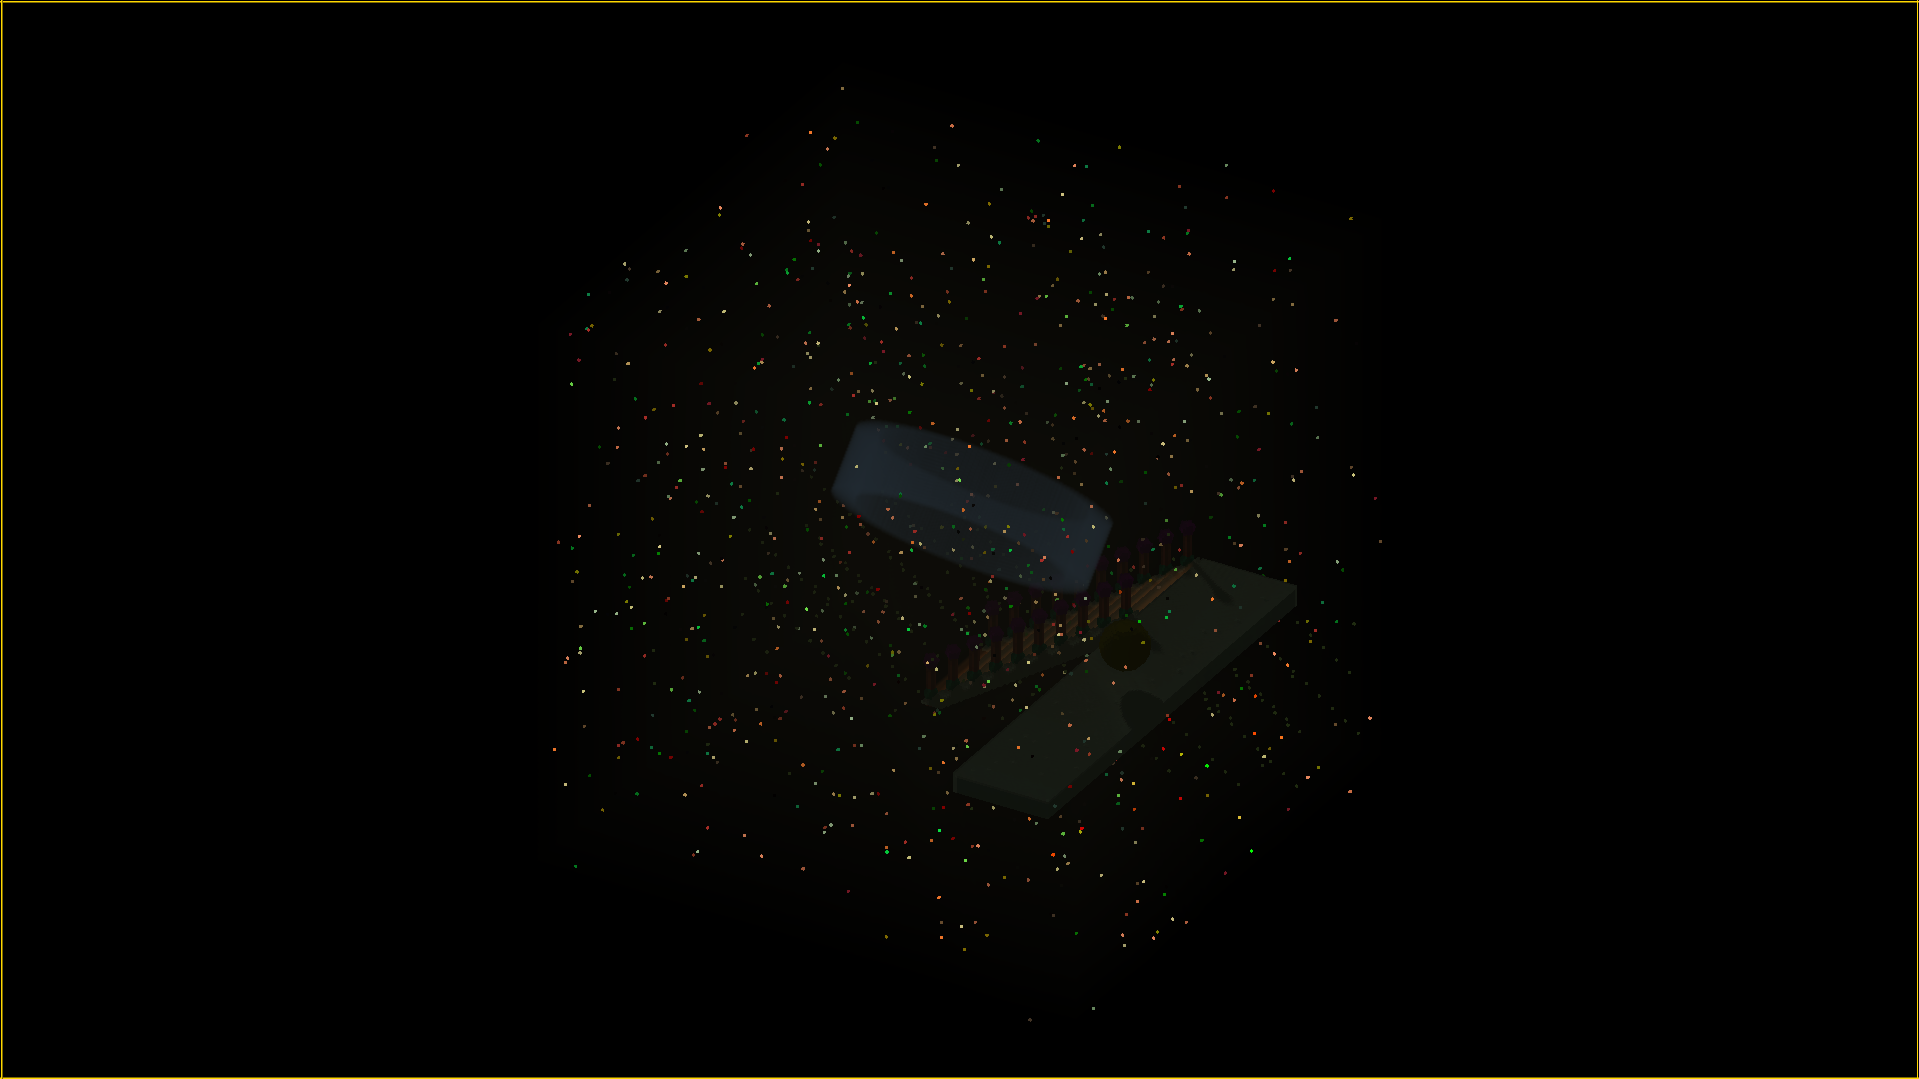
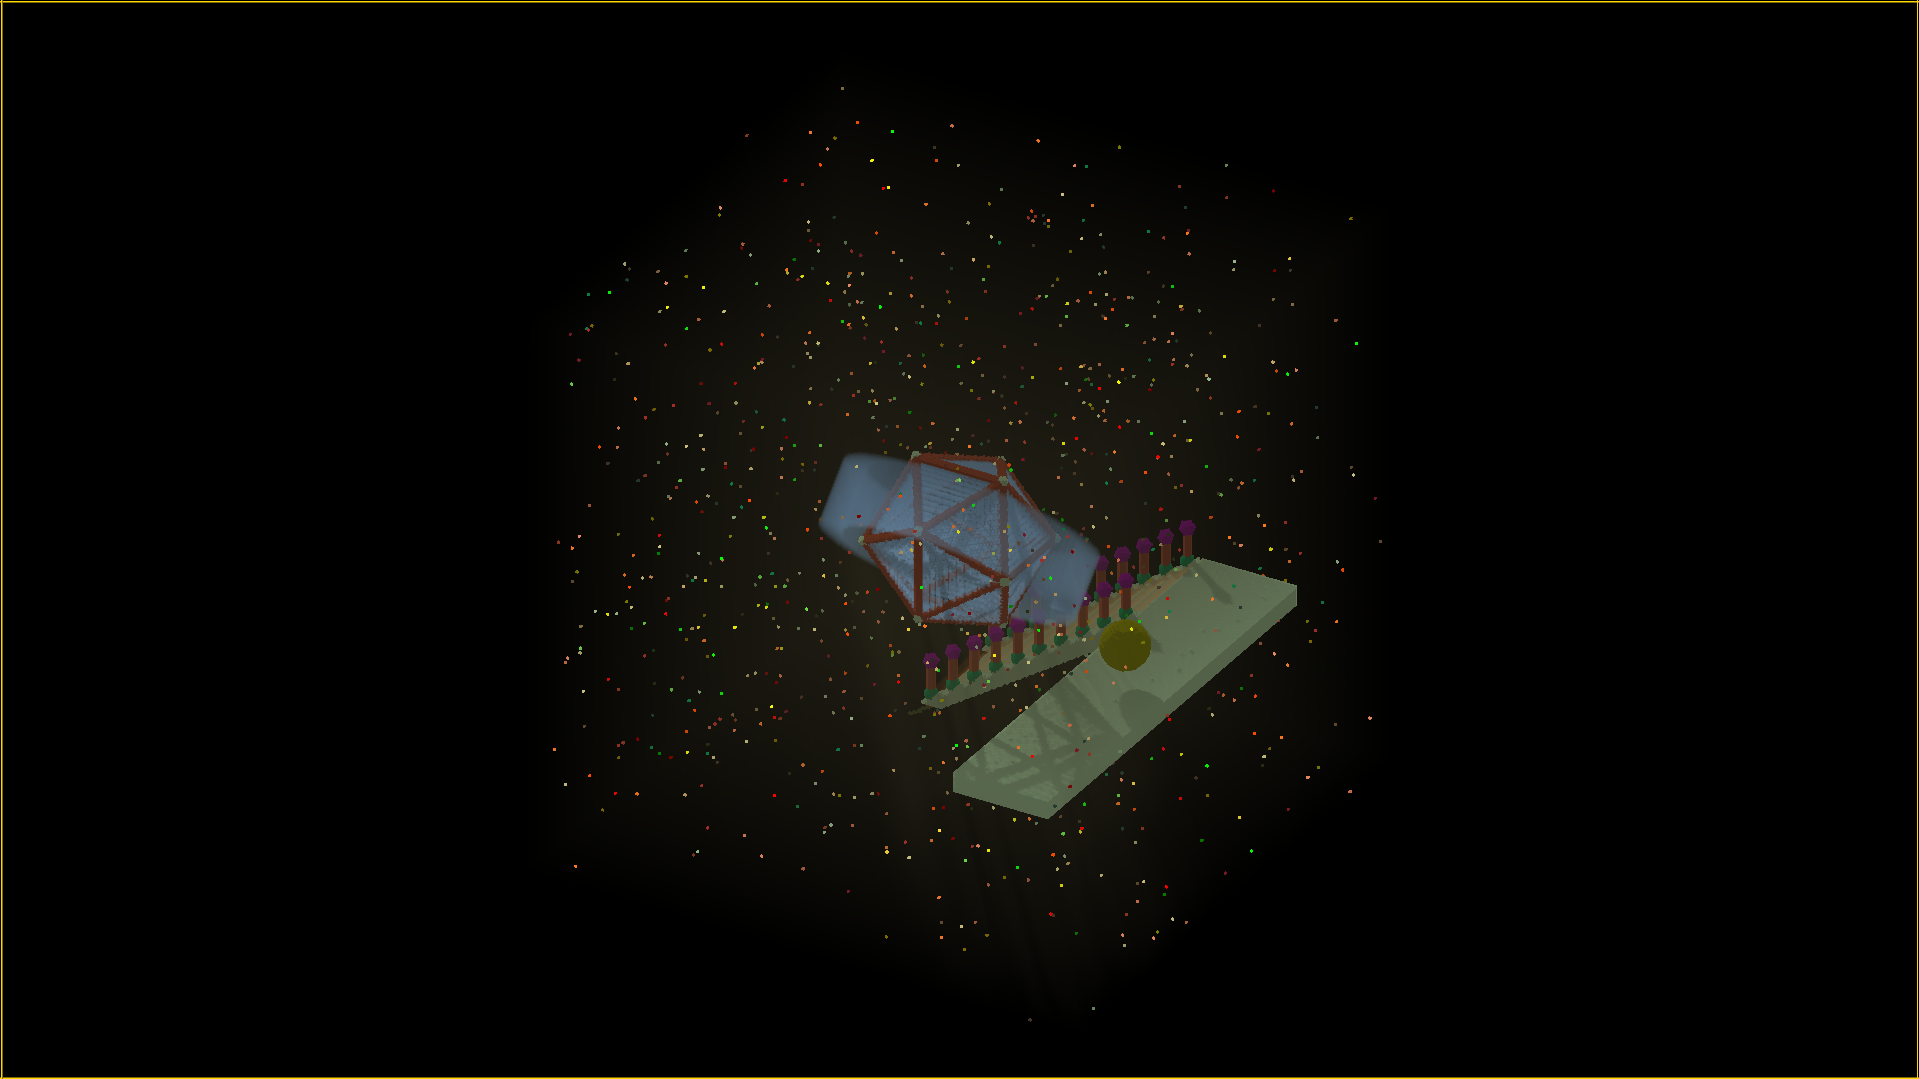
fixed the problem with the draw line segment function - not sure why it was fucking up so spectacularly but it was indeed doing so

Changed region(s): [[0.4304, 0.3976, 0.6764, 0.7646]]

diff --git a/main.cc b/main.cc
@@ -27,7 +27,7 @@ Voraldo *main_block;
 int main()
 {
 
-  bool animate = true;
+  bool animate = false;
 
   main_block = new Voraldo();
   main_block->draw->init_block(dimensions);
@@ -152,9 +152,9 @@ int main()
    main_block->draw->draw_line_segment(vec(180,8,178), vec( 80, 78,178), get_vox(30,1.0,1.0,true));
 
    //main_block->draw->draw_cylinder(center,center+vec(0,20,20),45,get_vox(37,0.02,1.0,false),true,true);
-   main_block->draw->draw_tube(center,center+vec(0,20,20),45,55,get_vox(37,0.02,0.3,false),true,true);
+   main_block->draw->draw_tube(center+vec(0,-10,-10),center+vec(0,10,10),45,55,get_vox(37,0.02,0.3,false),true,true);
 
-   main_block->draw->draw_regular_icosahedron(0,0,0,20,center,get_vox(27,1.0,0.3,false/*vertex material*/),2,get_vox(4,1.0,0.3,false/*edge_material*/),1.5,get_vox(37,0.12,0.3,false/*face_material*/));
+   main_block->draw->draw_regular_icosahedron(0,0,0,20,center,get_vox(27,1.0,0.3,false/*vertex material*/),2,get_vox(4,1.0,0.3,false/*edge_material*/),1.5,get_vox(37,0.20,0.3,false/*face_material*/));
 
 
 
@@ -165,7 +165,7 @@ int main()
 
    main_block->lighting->scale_lighting_intensity(4.0);
 
-   main_block->io->display("new_output_step_1.png", 3.14, 3.14/3.0 + 3.14, 3.14/3.0, 0.4, false);
+   //main_block->io->display("new_output_step_1.png", 3.14, 3.14/3.0 + 3.14, 3.14/3.0, 0.4, false);
 
    // main_block->lighting->scale_lighting_intensity(1.2);
    //
@@ -197,19 +197,11 @@ int main()
 
 
            cout << "process 0 starting" << endl;
-           for(int i = 4*40; i < 5*40; i += 1)
+           for(int i = 4*40+320; i < 5*40+320; i += 1)
            {
               std::cout << "frame number " << i;
               tick = Clock::now();
 
-              main_block->draw->draw_sphere(center,1000,get_vox( 0,0.0007,0.1,false),true,false);
-              main_block->draw->draw_regular_icosahedron(-0.001*i,0.001*i,0.001*i,20,center,get_vox(27,1.0,0.3,false/*vertex material*/),2,get_vox(4,1.0,0.3,false/*edge_material*/),1.5,get_vox(37,0.12,0.3,false/*face_material*/));
-             // main_block->draw->draw_sphere(center,1000,get_vox(17,0.0007,0.1,false),true,false);
-
-              main_block->lighting->scale_lighting_intensity(1.8);
-
-              main_block->lighting->apply_directional_lighting(5.0, 3.14, 0.25*3.14, 3.14/3, 0.15, true);
-              main_block->lighting->scale_lighting_intensity(0.8);
 
               if(i < 10)
               {
@@ -233,19 +225,10 @@ int main()
           {//process 4 (child of process 0)
             cout << "process 4 starting" << endl;
 
-            for(int i = 0; i < 40; i += 1)
+            for(int i = 0+320; i < 40+320; i += 1)
             {
                std::cout << "frame number " << i;
                tick = Clock::now();
-
-               main_block->draw->draw_sphere(center,1000,get_vox( 0,0.0007,0.1,false),true,false);
-               main_block->draw->draw_regular_icosahedron(-0.001*i,0.001*i,0.001*i,20,center,get_vox(27,1.0,0.3,false/*vertex material*/),2,get_vox(4,1.0,0.3,false/*edge_material*/),1.5,get_vox(37,0.12,0.3,false/*face_material*/));
-              // main_block->draw->draw_sphere(center,1000,get_vox(17,0.0007,0.1,false),true,false);
-
-               main_block->lighting->scale_lighting_intensity(1.8);
-
-               main_block->lighting->apply_directional_lighting(5.0, 3.14, 0.25*3.14, 3.14/3, 0.15, true);
-               main_block->lighting->scale_lighting_intensity(0.8);
 
                if(i < 10)
                {
@@ -272,19 +255,11 @@ int main()
          {//process 2
            cout << "process 2 starting" << endl;
 
-           for(int i = 2*40; i < 3*40; i += 1)
+           for(int i = 2*40+320; i < 3*40+320; i += 1)
            {
              std::cout << "frame number " << i;
              tick = Clock::now();
 
-             main_block->draw->draw_sphere(center,1000,get_vox( 0,0.0007,0.1,false),true,false);
-             main_block->draw->draw_regular_icosahedron(-0.001*i,0.001*i,0.001*i,20,center,get_vox(27,1.0,0.3,false/*vertex material*/),2,get_vox(4,1.0,0.3,false/*edge_material*/),1.5,get_vox(37,0.12,0.3,false/*face_material*/));
-            // main_block->draw->draw_sphere(center,1000,get_vox(17,0.0007,0.1,false),true,false);
-
-             main_block->lighting->scale_lighting_intensity(1.8);
-
-             main_block->lighting->apply_directional_lighting(5.0, 3.14, 0.25*3.14, 3.14/3, 0.15, true);
-             main_block->lighting->scale_lighting_intensity(0.8);
 
               if(i < 10)
               {
@@ -306,19 +281,11 @@ int main()
          {//process 5 (child of process 2)
            cout << "process 5 starting" << endl;
 
-           for(int i = 5*40; i < 6*40; i += 1)
+           for(int i = 5*40+320; i < 6*40+320; i += 1)
            {
              std::cout << "frame number " << i;
              tick = Clock::now();
 
-             main_block->draw->draw_sphere(center,1000,get_vox( 0,0.0007,0.1,false),true,false);
-             main_block->draw->draw_regular_icosahedron(-0.001*i,0.001*i,0.001*i,20,center,get_vox(27,1.0,0.3,false/*vertex material*/),2,get_vox(4,1.0,0.3,false/*edge_material*/),1.5,get_vox(37,0.12,0.3,false/*face_material*/));
-            // main_block->draw->draw_sphere(center,1000,get_vox(17,0.0007,0.1,false),true,false);
-
-             main_block->lighting->scale_lighting_intensity(1.8);
-
-             main_block->lighting->apply_directional_lighting(5.0, 3.14, 0.25*3.14, 3.14/3, 0.15, true);
-             main_block->lighting->scale_lighting_intensity(0.8);
 
               if(i < 10)
               {
@@ -346,19 +313,10 @@ int main()
            {//first child process (process 1)
 
            cout << "process 1 starting" << endl;
-           for(int i = 40; i < 2*40; i += 1)
+           for(int i = 40+320; i < 2*40+320; i += 1)
            {
              std::cout << "frame number " << i;
              tick = Clock::now();
-
-             main_block->draw->draw_sphere(center,1000,get_vox( 0,0.0007,0.1,false),true,false);
-             main_block->draw->draw_regular_icosahedron(-0.001*i,0.001*i,0.001*i,20,center,get_vox(27,1.0,0.3,false/*vertex material*/),2,get_vox(4,1.0,0.3,false/*edge_material*/),1.5,get_vox(37,0.12,0.3,false/*face_material*/));
-             //main_block->draw->draw_sphere(center,1000,get_vox(17,0.0007,0.1,false),true,false);
-
-             main_block->lighting->scale_lighting_intensity(1.8);
-
-             main_block->lighting->apply_directional_lighting(5.0, 3.14, 0.25*3.14, 3.14/3, 0.15, true);
-             main_block->lighting->scale_lighting_intensity(0.8);
 
               if(i < 10)
               {
@@ -380,19 +338,10 @@ int main()
          {//process 6
            cout << "process 6 starting" << endl;
 
-           for(int i = 6*40; i < 7*40; i += 1)
+           for(int i = 6*40+320; i < 7*40+320; i += 1)
            {
              std::cout << "frame number " << i;
              tick = Clock::now();
-
-             main_block->draw->draw_sphere(center,1000,get_vox( 0,0.0007,0.1,false),true,false);
-             main_block->draw->draw_regular_icosahedron(-0.001*i,0.001*i,0.001*i,20,center,get_vox(27,1.0,0.3,false/*vertex material*/),2,get_vox(4,1.0,0.3,false/*edge_material*/),1.5,get_vox(37,0.12,0.3,false/*face_material*/));
-            // main_block->draw->draw_sphere(center,1000,get_vox(17,0.0007,0.1,false),true,false);
-
-             main_block->lighting->scale_lighting_intensity(1.8);
-
-             main_block->lighting->apply_directional_lighting(5.0, 3.14, 0.25*3.14, 3.14/3, 0.15, true);
-             main_block->lighting->scale_lighting_intensity(0.8);
 
               if(i < 10)
               {
@@ -419,19 +368,11 @@ int main()
          //child of child process (process 3)
          cout << "process 3 starting" << endl;
 
-         for(int i = 3*40; i < 4*40; i += 1)
+         for(int i = 3*40+320; i < 4*40+320; i += 1)
          {
            std::cout << "frame number " << i;
            tick = Clock::now();
 
-           main_block->draw->draw_sphere(center,1000,get_vox( 0,0.0007,0.1,false),true,false);
-           main_block->draw->draw_regular_icosahedron(-0.001*i,0.001*i,0.001*i,20,center,get_vox(27,1.0,0.3,false/*vertex material*/),2,get_vox(4,1.0,0.3,false/*edge_material*/),1.5,get_vox(37,0.12,0.3,false/*face_material*/));
-          // main_block->draw->draw_sphere(center,1000,get_vox(17,0.0007,0.1,false),true,false);
-
-           main_block->lighting->scale_lighting_intensity(1.8);
-
-           main_block->lighting->apply_directional_lighting(5.0, 3.14, 0.25*3.14, 3.14/3, 0.15, true);
-           main_block->lighting->scale_lighting_intensity(0.8);
 
             if(i < 10)
             {
@@ -453,19 +394,11 @@ int main()
        {
          cout << "process 7 starting" << endl;
 
-         for(int i = 7*40; i < 8*40; i += 1)
+         for(int i = 7*40+320; i < 8*40+320; i += 1)
          {
            std::cout << "frame number " << i;
            tick = Clock::now();
 
-           main_block->draw->draw_sphere(center,1000,get_vox( 0,0.0007,0.1,false),true,false);
-           main_block->draw->draw_regular_icosahedron(-0.001*i,0.001*i,0.001*i,20,center,get_vox(27,1.0,0.3,false/*vertex material*/),2,get_vox(4,1.0,0.3,false/*edge_material*/),1.5,get_vox(37,0.12,0.3,false/*face_material*/));
-          // main_block->draw->draw_sphere(center,1000,get_vox(17,0.0007,0.1,false),true,false);
-
-           main_block->lighting->scale_lighting_intensity(1.8);
-
-           main_block->lighting->apply_directional_lighting(5.0, 3.14, 0.25*3.14, 3.14/3, 0.15, true);
-           main_block->lighting->scale_lighting_intensity(0.8);
 
             if(i < 10)
             {
@@ -488,7 +421,7 @@ int main()
    }//end animate
    else
    {
-     //main_block->io->display("new_output1.png", 3.14, 3.14/3.0 + 3.14, 3.14/3.0, 0.4, false);
+     main_block->io->display("new_output1.png", 3.14, 3.14/3.0 + 3.14, 3.14/3.0, 0.4, false);
    }
 
   return 0;

diff --git a/includes/voraldo/v.cc b/includes/voraldo/v.cc
@@ -159,7 +159,7 @@ void Voraldo_Lighting::apply_directional_lighting(float initial_intensity, doubl
             parent->set_data_by_vector_index(vector_test_point,temp2,false,false,true);
 
             //certain amount of light gets 'absorbed' by the cell, temp - subtract the alpha value from the alpha_sum
-            alpha_sum += 0.1*temp1.alpha;
+            alpha_sum += 0.2*temp1.alpha;
 
             //if the lighting intensity is now less than zero, break out of the for loop - there's no more light left
             if(alpha_sum >= 1.0)
@@ -515,13 +515,13 @@ void Voraldo_Draw::draw_line_segment(vec v1, vec v2, Vox set, bool draw, bool ma
 	vec current_point = starting_point;
 	vec line_vector = (v2-v1);
 
-	int length = std::floor(linalg::length(line_vector));
+	int length = linalg::length(line_vector);
 
 	for(int i = 0; i < length; i++)
 	{
-		current_point[0] = starting_point[0] + i*(line_vector[0]/length);
-		current_point[1] = starting_point[1] + i*(line_vector[1]/length);
-		current_point[2] = starting_point[2] + i*(line_vector[2]/length);
+		current_point[0] = std::floor(starting_point[0] + i*(line_vector[0]/length));
+		current_point[1] = std::floor(starting_point[1] + i*(line_vector[1]/length));
+		current_point[2] = std::floor(starting_point[2] + i*(line_vector[2]/length));
 
     draw_point(current_point,set,draw,mask);
 	}
@@ -1040,9 +1040,9 @@ void Voraldo_Draw::draw_regular_icosahedron(double x_rot, double y_rot, double z
 //it is based on the idea that the points of a regular icosahedron lie on the points defined by three mutually orthogonal golden rectangles that share a center point at the origin
 //i.e. these rectanges are abcd,efgh and ijkl
   a = mul(rotation, vec(  0,  1*scale,  phi*scale)) + center_point; e = mul(rotation, vec(  1*scale,  phi*scale,  0)) + center_point; i = mul(rotation, vec(  phi*scale,  0,  1*scale)) + center_point;
-  b = mul(rotation, vec(  0,  1*scale, -phi*scale)) + center_point; f = mul(rotation, vec(  1*scale, -phi*scale,  0)) + center_point; j = mul(rotation, vec(  phi*scale,  0, -1*scale)) + center_point;
+  b = mul(rotation, vec(  0,  1*scale, -phi*scale)) + center_point; f = mul(rotation, vec( -1*scale, -phi*scale,  0)) + center_point; j = mul(rotation, vec(  phi*scale,  0, -1*scale)) + center_point;
   c = mul(rotation, vec(  0, -1*scale,  phi*scale)) + center_point; g = mul(rotation, vec( -1*scale,  phi*scale,  0)) + center_point; k = mul(rotation, vec( -phi*scale,  0,  1*scale)) + center_point;
-  d = mul(rotation, vec(  0, -1*scale, -phi*scale)) + center_point; h = mul(rotation, vec( -1*scale, -phi*scale,  0)) + center_point; l = mul(rotation, vec( -phi*scale,  0, -1*scale)) + center_point;
+  d = mul(rotation, vec(  0, -1*scale, -phi*scale)) + center_point; h = mul(rotation, vec(  1*scale, -phi*scale,  0)) + center_point; l = mul(rotation, vec( -phi*scale,  0, -1*scale)) + center_point;
 //nonzero components of the coordinates are scaled by the scale input argument. The result of that operation is multiplied by the composed rotation matrix, then added to the shape's center point
 
 
